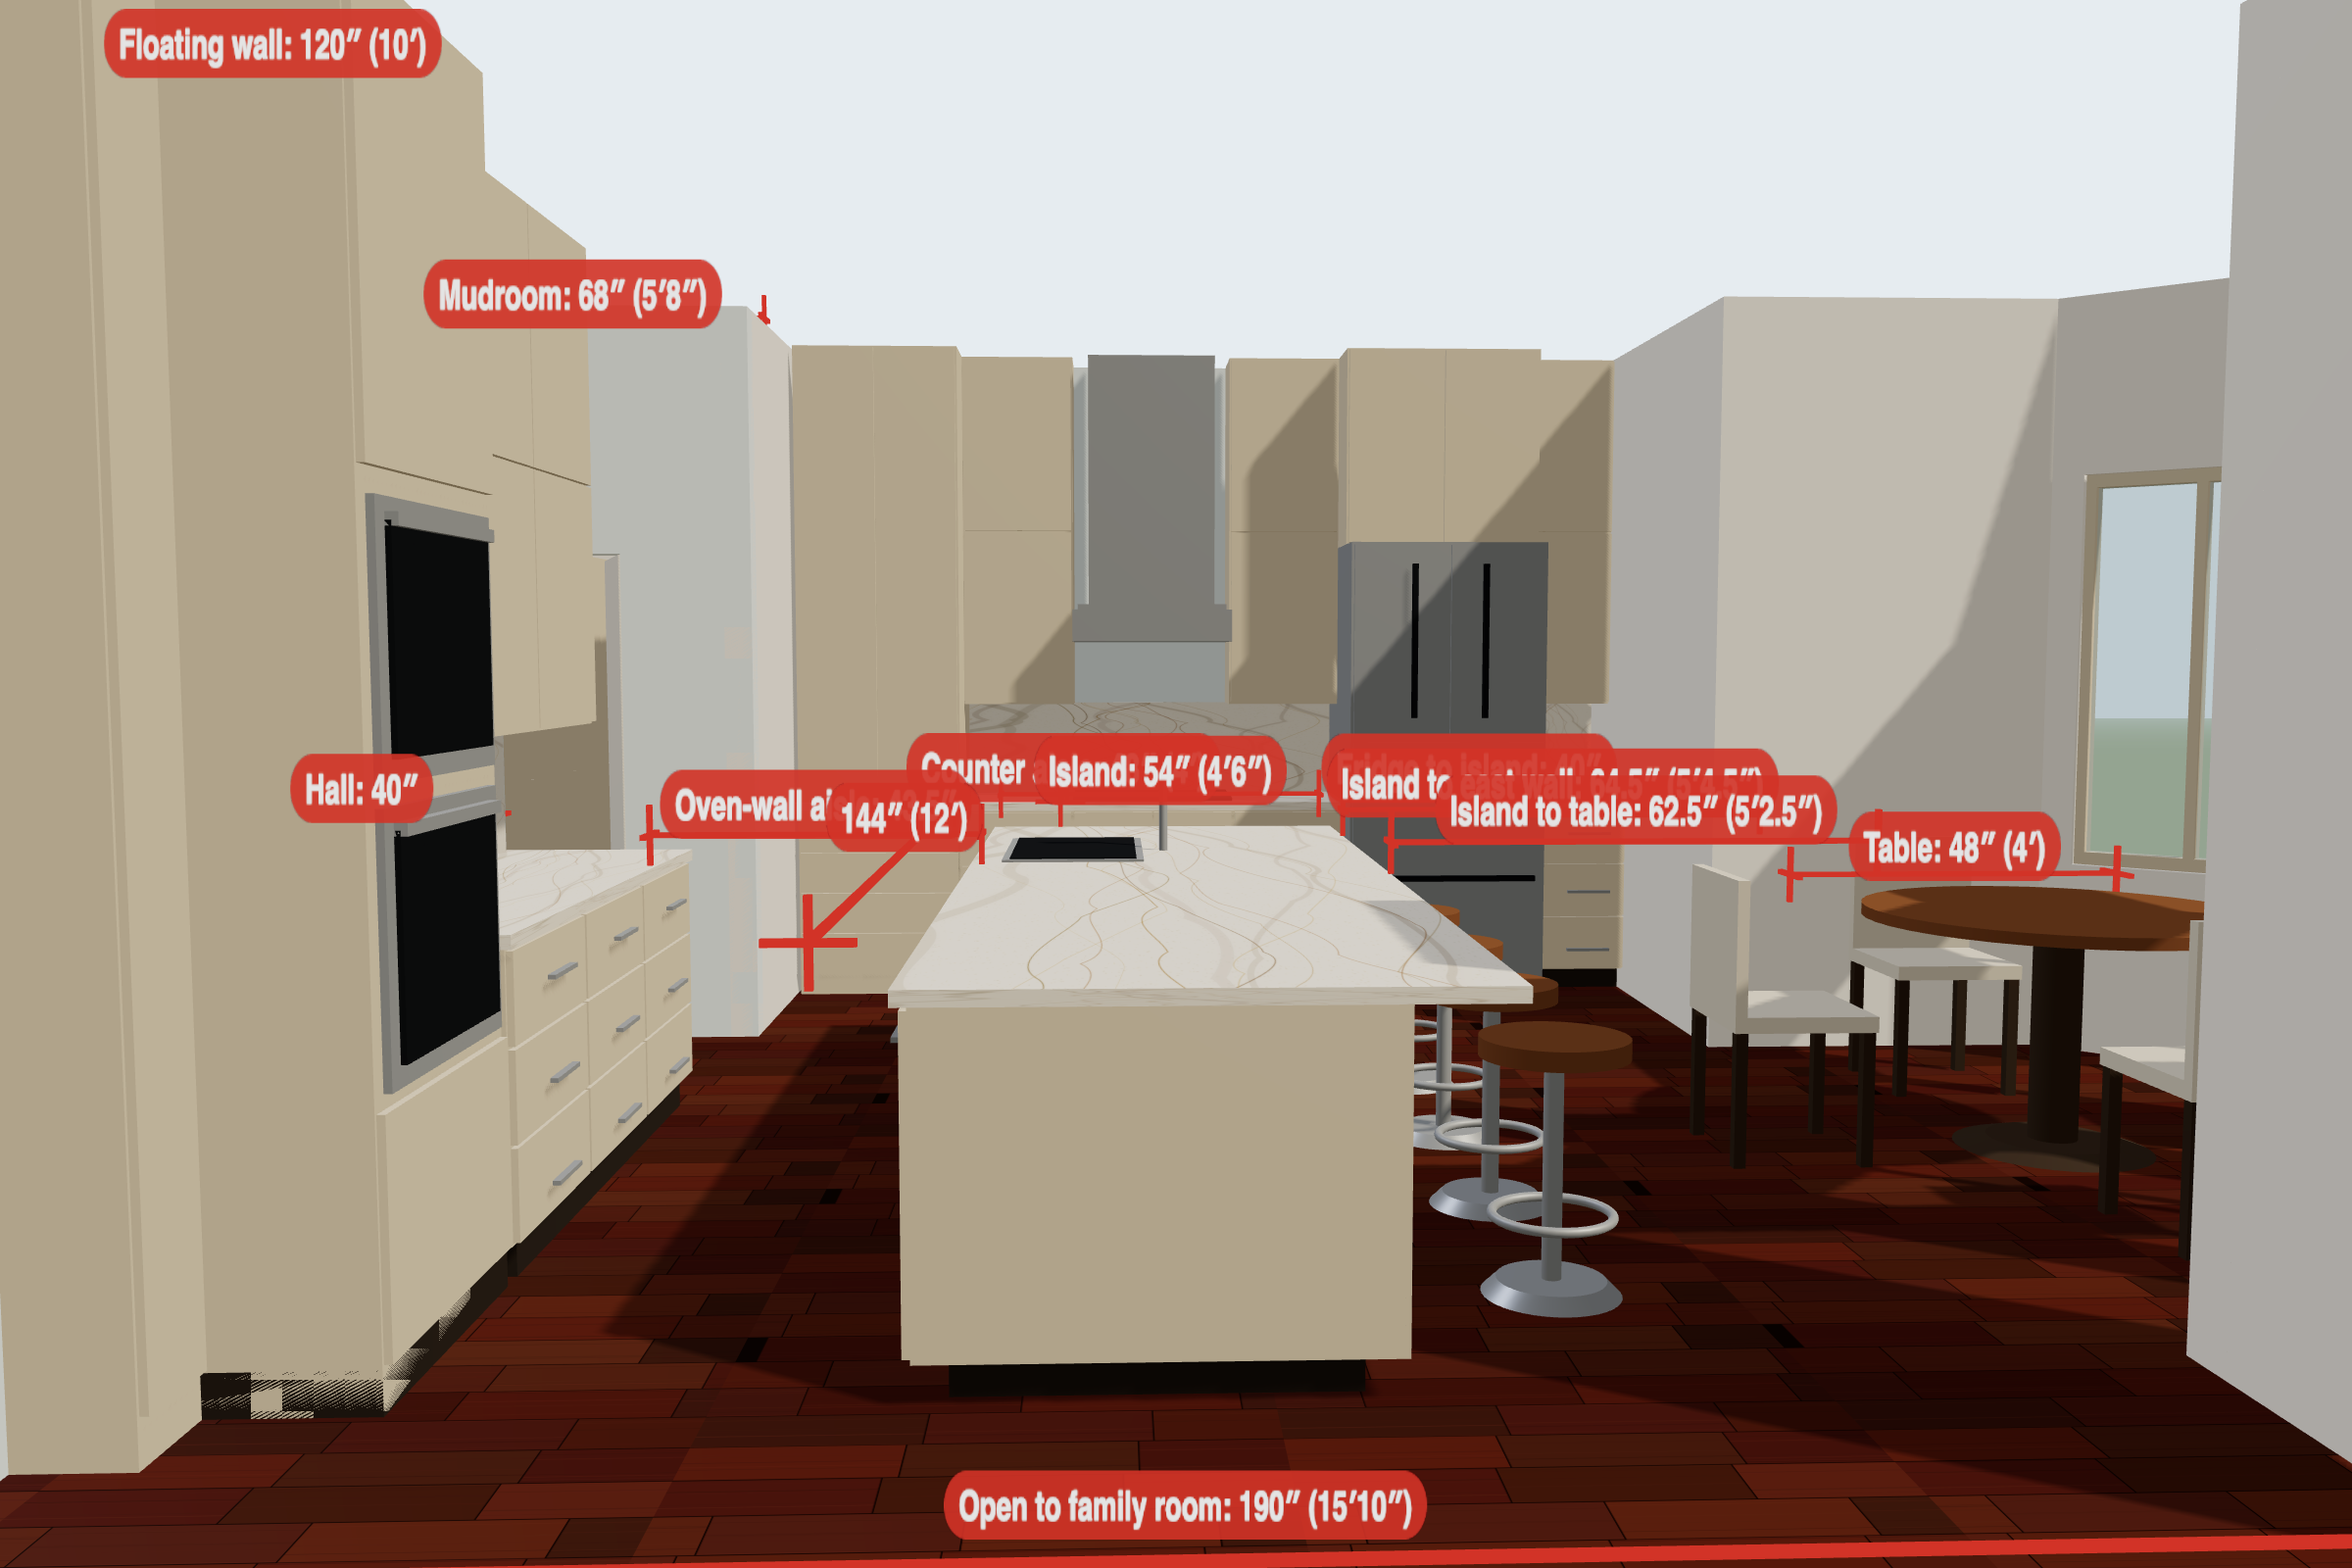
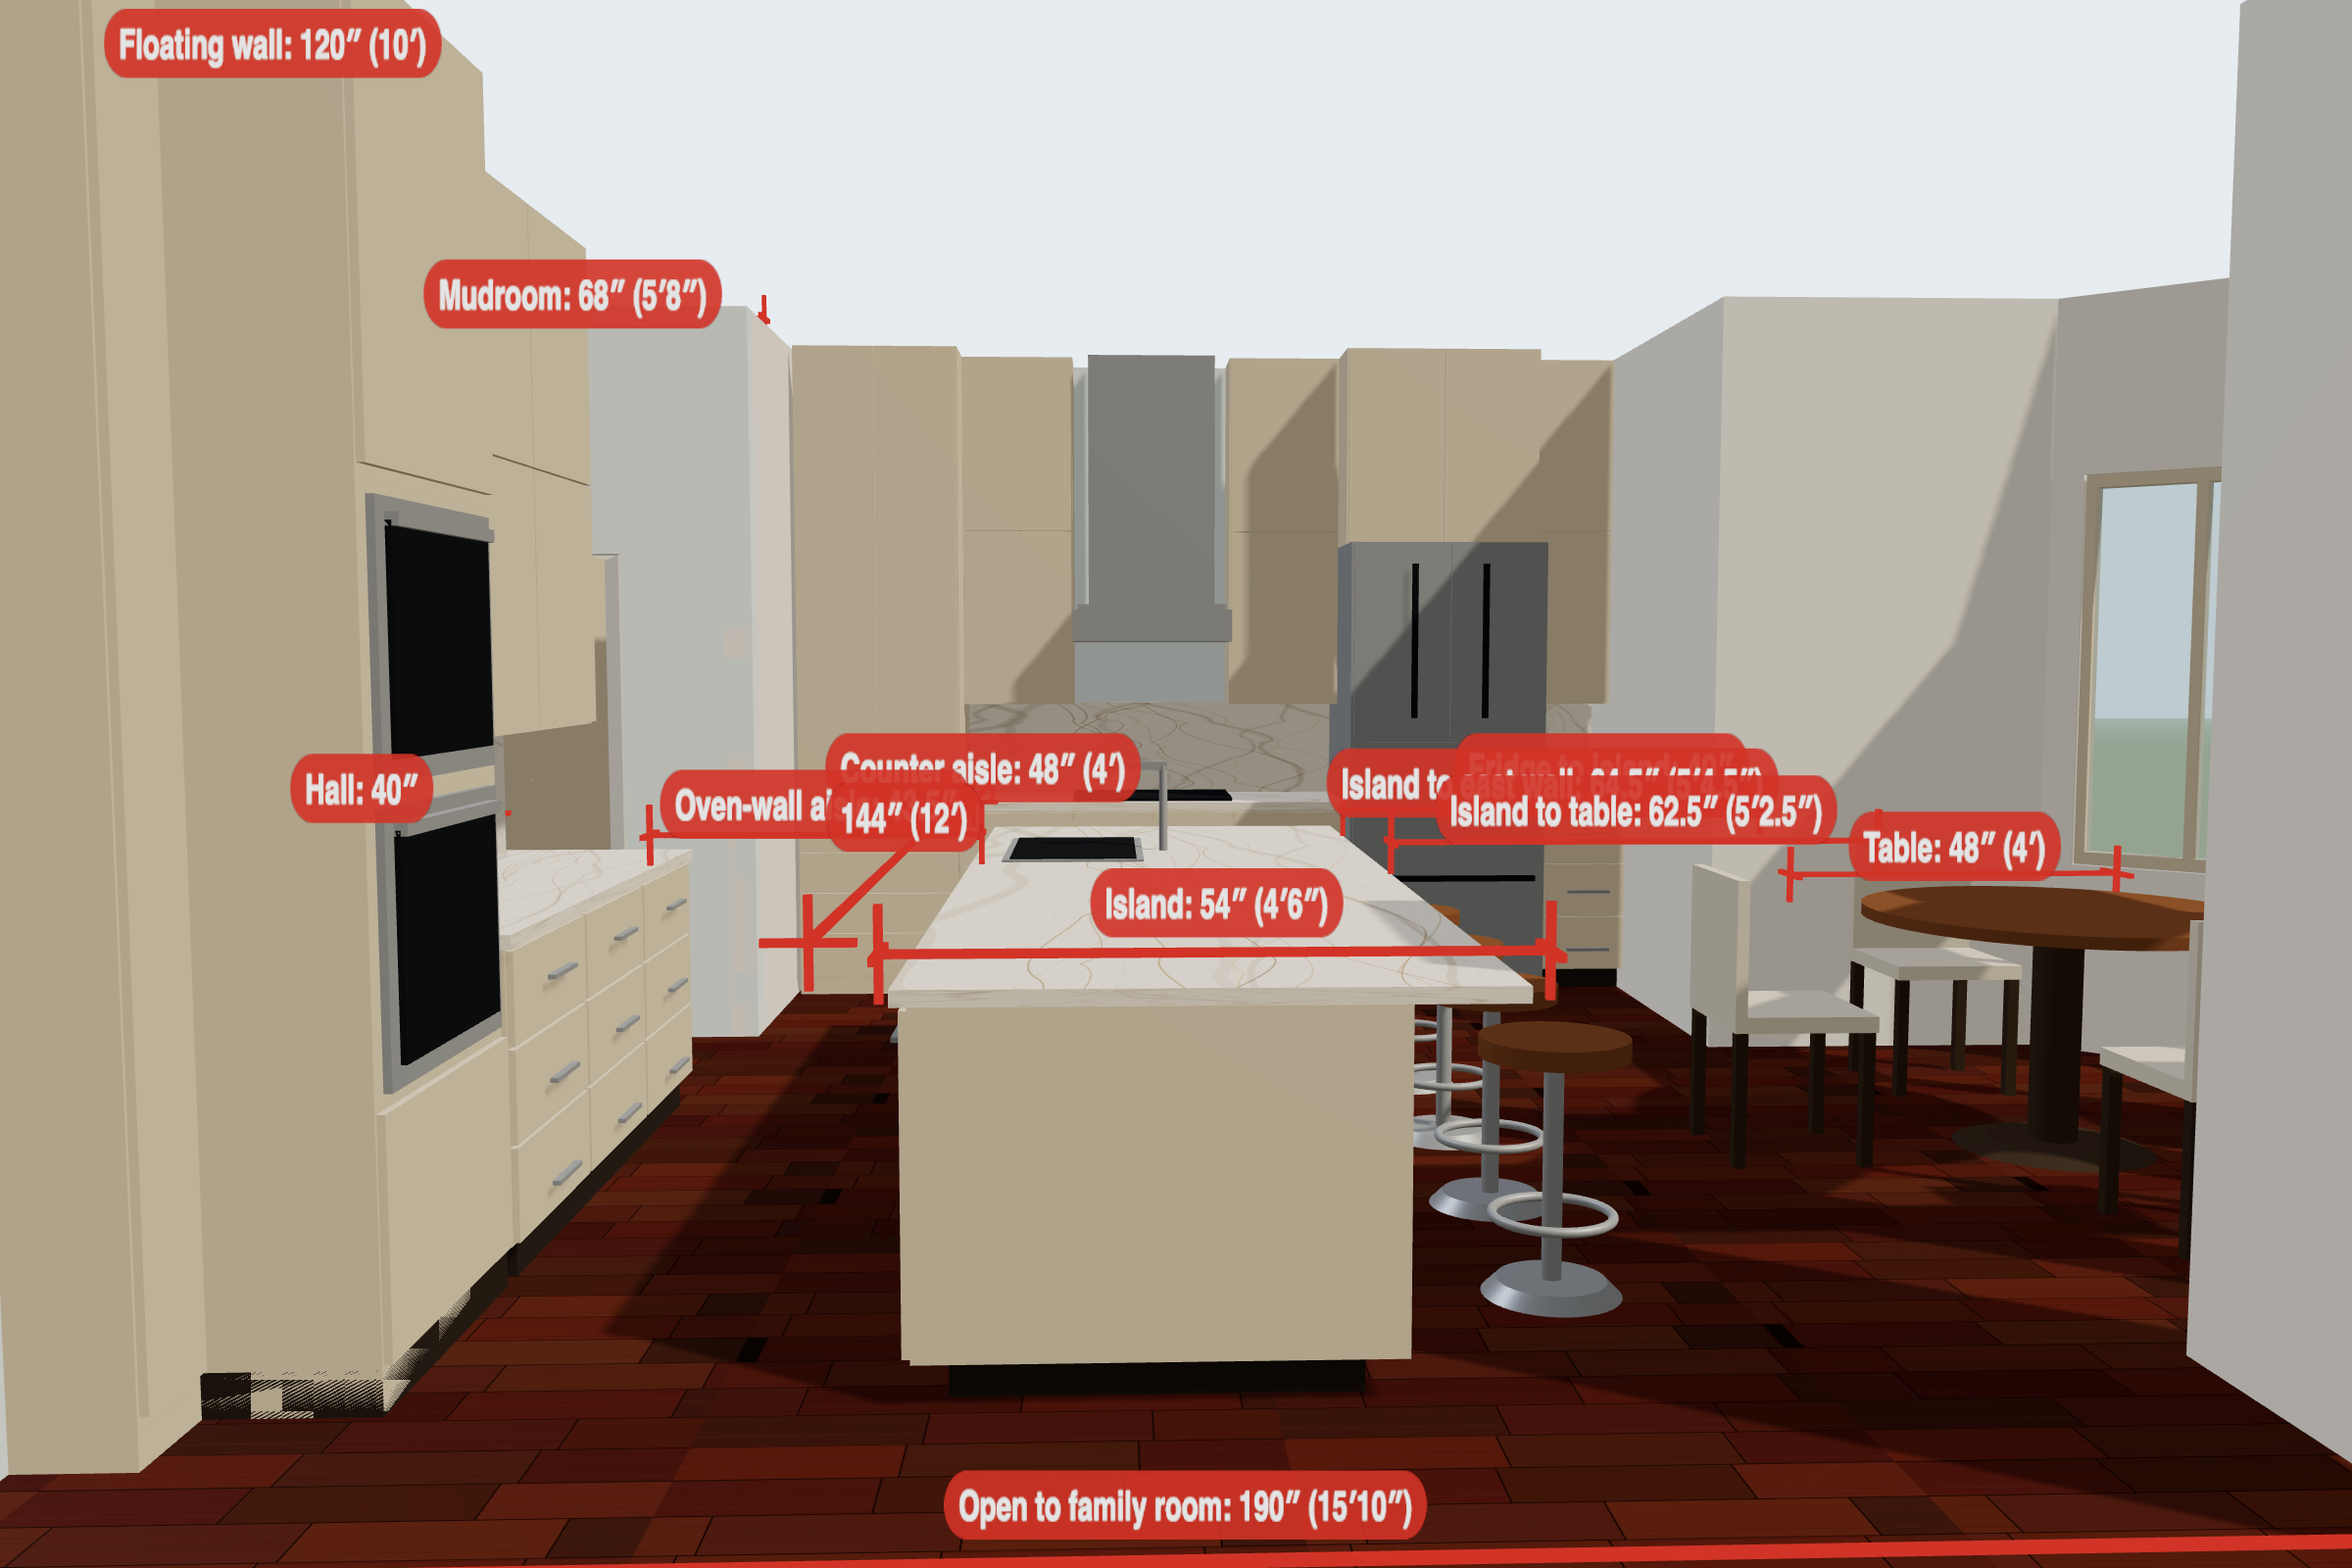
Space the measurement labels apart

Changed region(s): [[0.3438, 0.4688, 0.6875, 0.625], [0.6875, 0.4688, 0.75, 0.5]]

diff --git a/index.html b/index.html
@@ -333,15 +333,15 @@ function dim(x0,z0,x1,z1,y,note){
   label((note?note+': ':'')+fmt(L),(x0+x1)/2,y+4,(z0+z1)/2,0.72,dims,'rgba(192,57,43,.9)');
 }
 // walkways (measured face to face in the model)
-dim(122,95.5,122,IZ,40,'Counter aisle');                 // cooktop counter front to island
+dim(108,95.5,108,IZ,40,'Counter aisle');                 // cooktop counter front to island
 dim(69.5,196,IX,196,40,'Oven-wall aisle');               // oven-wall counter front to island
 dim(0,165,40,165,40,'Hall');                             // hall width west of floating wall
 dim(IX+52.5,TC[1],TC[0]-24,TC[1],40,'Island to table');  // island top edge to table edge
 dim(TC[0]+24,TC[1],314,TC[1],40,'Table to bay wall');    // table edge to bay window wall
-dim(192,103.5,192,IZ,40,'Fridge to island');             // fridge door face to island
+dim(215,103.5,215,IZ,40,'Fridge to island');             // fridge door face to island
 dim(IX+52.5,160,230,160,40,'Island to east wall');       // island top edge to exterior wall
 // fixtures
-dim(IX-1.5,IZ-16,IX+52.5,IZ-16,40,'Island');
+dim(IX-1.5,IZ+150,IX+52.5,IZ+150,40,'Island');
 dim(IX-8,IZ,IX-8,IZ+144,40);
 dim(42,177,42,297,124,'Floating wall');
 dim(TC[0]-24,TC[1]-30,TC[0]+24,TC[1]-30,32,'Table');
